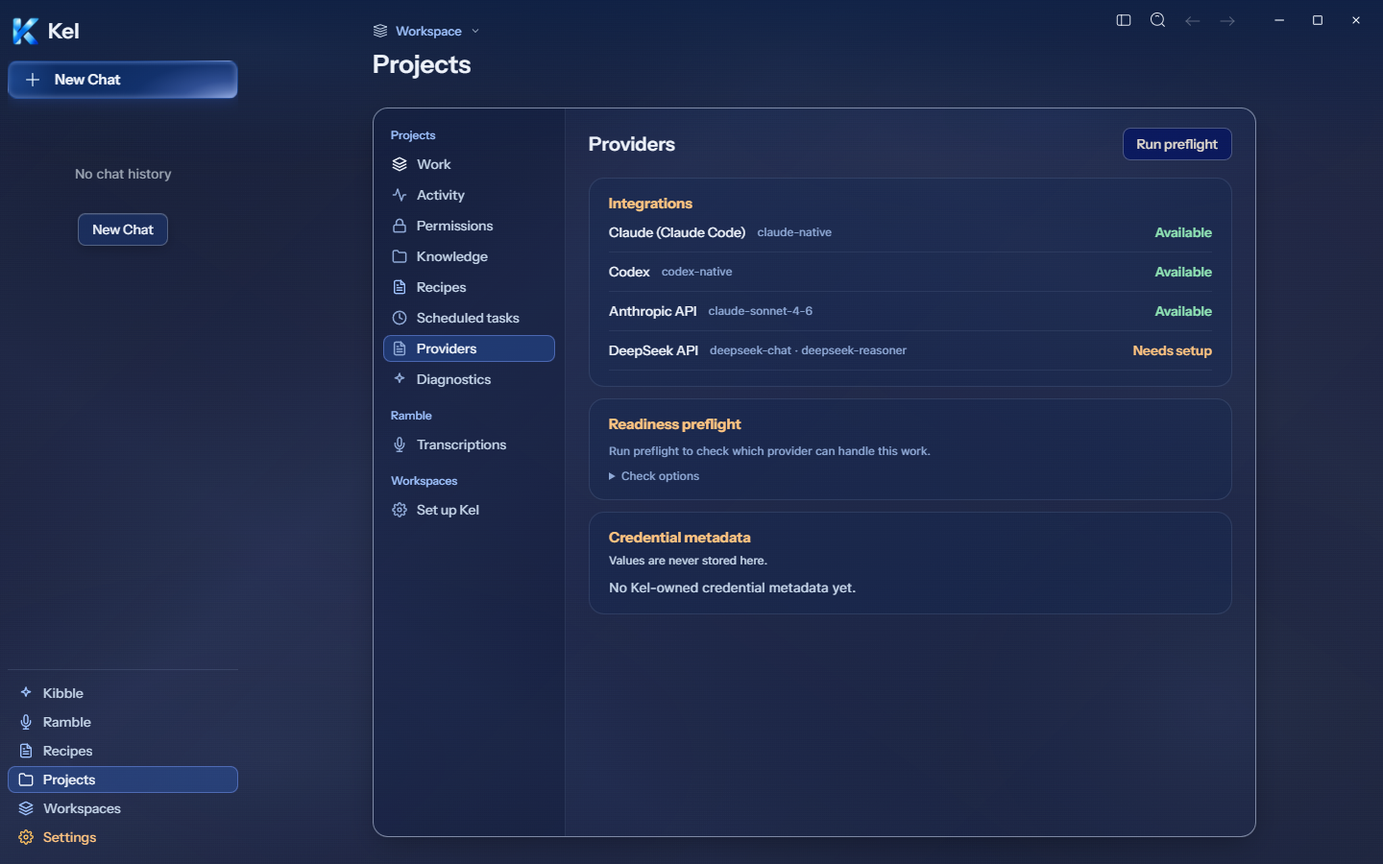
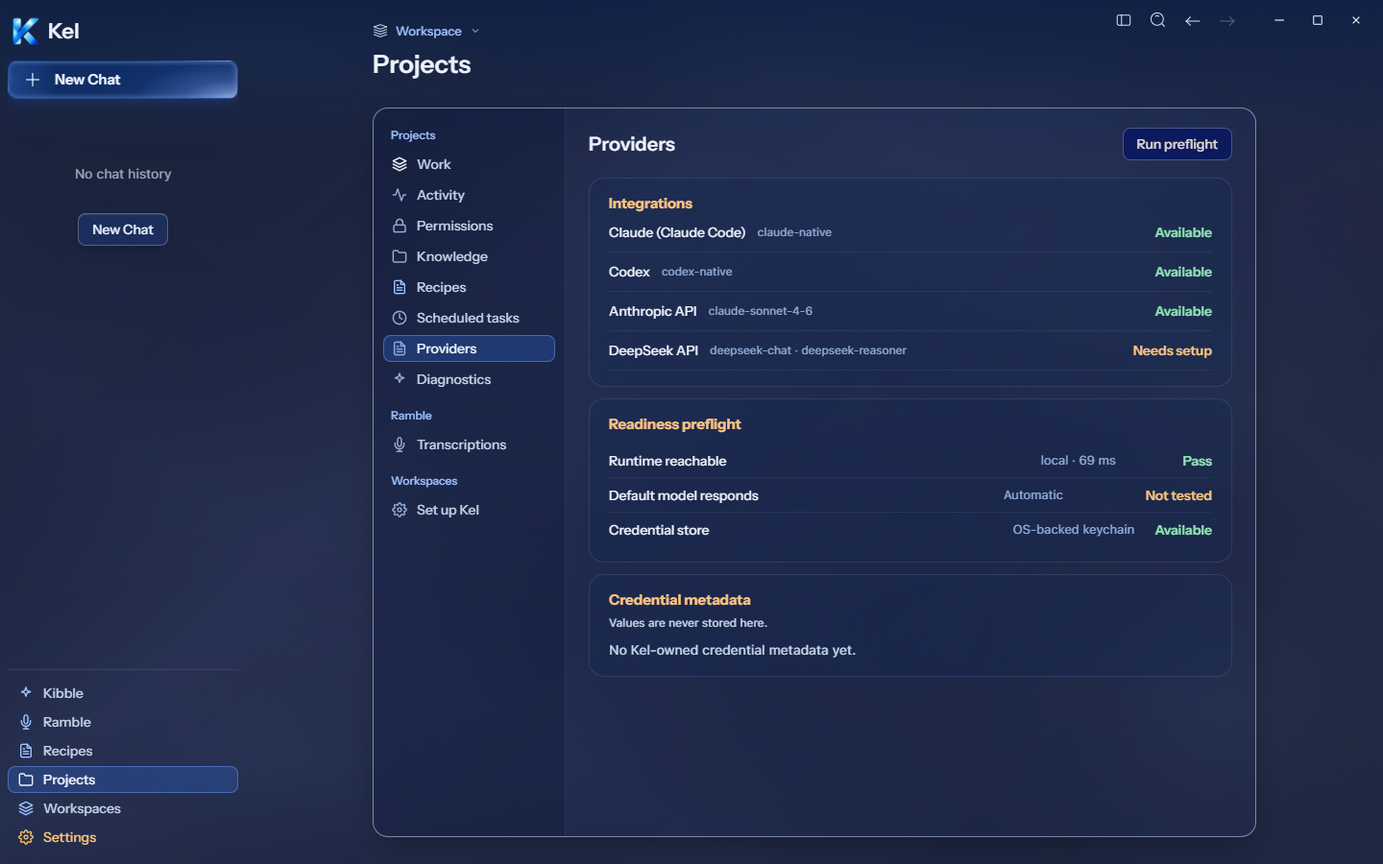
Match desktop Providers readiness and Model selection to Figma

Changed region(s): [[0.4375, 0.4978, 0.6562, 0.7778], [0.7188, 0.5289, 0.875, 0.6222]]

diff --git a/desktop/packages/desktop/src/renderer/styles/kel-shell.css b/desktop/packages/desktop/src/renderer/styles/kel-shell.css
@@ -1130,7 +1130,16 @@ button.kel-shell-attention-line { cursor: pointer; }
 .kel-v2-shell .kel-shell-task-setting-control:focus-visible { outline: 2px solid #7fa0ff; outline-offset: 2px; }
 .kel-v2-shell .kel-shell-task-setting-control > span { color: var(--kel-figma-color-text-muted); }
 .kel-v2-shell .kel-shell-activity-clear { margin: 0; color: var(--kel-figma-color-text-muted); font: 400 14px/20px var(--kel-shell-body); }
+.kel-v2-shell .kel-shell-provider-preflight-rows { display: flex; flex-direction: column; gap: 0; }
+.kel-v2-shell .kel-shell-provider-preflight-row { display: grid; grid-template-columns: minmax(0,1fr) minmax(0,140px) auto; align-items: center; gap: 8px; min-height: 35px; border-bottom: 1px solid rgba(191,216,255,.08); color: var(--kel-text-1); font: 500 14px/20px var(--kel-shell-heading); }
+.kel-v2-shell .kel-shell-provider-preflight-row:nth-of-type(3) { border-bottom: 0; }
+.kel-v2-shell .kel-shell-provider-preflight-row .kel-meta { font: 400 13px/18px var(--kel-shell-body); white-space: nowrap; overflow: hidden; text-overflow: ellipsis; }
+.kel-v2-shell .kel-shell-provider-preflight-row .kel-chip { justify-self: end; border: 0; background: transparent; box-shadow: none; padding: 0; white-space: nowrap; }
+.kel-v2-shell .kel-shell-provider-preflight-options { padding-top: 12px; border-top: 1px solid rgba(191,216,255,.08); }
 @media(min-width:768px) {
+  .kel-v2-shell .kel-shell-provider-preflight > .kel-shell-source-card-head { min-height: 20px; padding-right: 0; }
+  .kel-v2-shell .kel-shell-provider-preflight .kel-shell-source-card-actions { opacity: 0; pointer-events: none; }
+  .kel-v2-shell .kel-shell-provider-preflight:is(:hover, :focus-within) .kel-shell-source-card-actions { opacity: 1; pointer-events: auto; }
   .kel-v2-shell #project-map:has(.kel-empty) .kel-shell-source-card-head { min-height: 20px; padding-right: 0; }
   .kel-v2-shell #project-map:has(.kel-empty) .kel-shell-source-card-actions { opacity: 0; pointer-events: none; }
   .kel-v2-shell #project-map:has(.kel-empty):is(:hover, :focus-within) .kel-shell-source-card-actions { opacity: 1; pointer-events: auto; }
@@ -1184,6 +1193,10 @@ button.kel-shell-attention-line { cursor: pointer; }
     color: #7ee0a8;
     font: 700 13px/18px var(--kel-shell-heading);
   }
+}
+@media(min-width:768px) and (max-width:1100px) {
+  .kel-v2-shell .kel-shell-provider-preflight-row { grid-template-columns: minmax(0,1fr) auto; }
+  .kel-v2-shell .kel-shell-provider-preflight-row .kel-meta { display: none; }
 }
 @media(min-width:768px) {
   .kel-v2-shell .kel-shell-task-detail-desktop > .kel-shell-task-field {
@@ -1319,25 +1332,34 @@ html body .kel-v2-shell .kel-shell-chat-composer .sendbox-panel :is(.sendbox-mod
 .kel-v2-shell .kel-in-chat-frame__pane :is(.kel-shell-model-description, [data-testid='tools-header']) { display: none; }
 .kel-v2-shell .kel-in-chat-frame__pane [data-testid='kel-default-model-card'] { gap: 0; margin-bottom: 0; }
 .kel-v2-shell .kel-in-chat-frame__pane [data-testid='kel-default-model-card'] > .kel-shell-source-card-head { margin-bottom: 10px; }
-.kel-v2-shell .kel-in-chat-frame__pane [data-testid='kel-default-model-card'] > p:last-child { min-height: 25px; margin: 0 !important; font: 400 12px/16px var(--kel-shell-body); color: #6f86ad; }
 @media (min-width: 768px) {
-  .kel-v2-shell .kel-in-chat-frame__pane [data-testid='kel-default-model-card'] button {
+  .kel-v2-shell .kel-in-chat-frame__pane [data-testid='kel-default-model-card'] .kel-shell-default-model-row {
+    display: flex;
+    box-sizing: border-box;
+    min-height: 58px;
+    height: 58px;
+    gap: 12px;
     border: 0 !important;
     border-bottom: 1px solid rgba(191,216,255,.08) !important;
     border-radius: 0;
-    padding-left: 14px;
-    padding-right: 12px;
+    padding: 0;
+    background: transparent !important;
   }
-  .kel-v2-shell .kel-in-chat-frame__pane [data-testid='kel-default-model-card'] button[aria-pressed='true'] {
-    border-radius: 8px;
-    background: rgba(47,107,224,.2) !important;
-  }
-  .kel-v2-shell .kel-in-chat-frame__pane [data-testid='kel-default-model-card'] button > span:first-child { font: 500 14px/20px var(--kel-shell-heading); }
-  .kel-v2-shell .kel-in-chat-frame__pane [data-testid='kel-default-model-card'] button > span:first-child > span { font: 400 12px/16px var(--kel-shell-body); color: var(--kel-figma-color-text-muted); }
-  .kel-v2-shell .kel-in-chat-frame__pane [data-testid='kel-default-model-card'] button > span:last-child { font: 700 13px/18px var(--kel-shell-heading); }
-  .kel-v2-shell .kel-in-chat-frame__pane [data-testid='kel-default-model-card'] button[aria-pressed='true'] > span:last-child { color: #9fc3ff; }
-  .kel-v2-shell .kel-in-chat-frame__pane [data-testid='kel-default-model-card'] button .kel-chip--ok { color: #8fe3b4; }
-  .kel-v2-shell .kel-in-chat-frame__pane [data-testid='kel-default-model-card'] button .kel-chip--wait { color: #ffc481; }
+  .kel-v2-shell .kel-in-chat-frame__pane .kel-shell-default-model-row:last-child { border-bottom: 0 !important; }
+  .kel-v2-shell .kel-in-chat-frame__pane .kel-shell-default-model-row:hover { background: rgba(47,107,224,.08) !important; }
+  .kel-v2-shell .kel-in-chat-frame__pane .kel-shell-default-model-row .kel-shell-default-model-lead { display: flex; flex: 0 0 24px; align-items: center; justify-content: center; color: #9fc3ff; font: 600 17px/20px var(--kel-shell-heading); }
+  .kel-v2-shell .kel-in-chat-frame__pane .kel-shell-default-model-row .kel-shell-default-model-name { display: flex; flex: 1; flex-direction: column; min-width: 0; gap: 2px; color: var(--kel-text-1); font: 500 14px/19px var(--kel-shell-heading); }
+  .kel-v2-shell .kel-in-chat-frame__pane .kel-shell-default-model-row .kel-shell-default-model-name > span { color: #8fa9d6; font: 400 12px/16px var(--kel-shell-body); }
+  .kel-v2-shell .kel-in-chat-frame__pane .kel-shell-default-model-row .kel-shell-default-model-status { flex: 0 0 120px; color: #8fe3b4; font: 700 13px/18px var(--kel-shell-heading); }
+  .kel-v2-shell .kel-in-chat-frame__pane .kel-shell-default-model-row[aria-pressed='true'] .kel-shell-default-model-status { color: #9fc3ff; }
+  .kel-v2-shell .kel-in-chat-frame__pane .kel-shell-default-model-row .kel-shell-default-model-status--wait { color: #ffc481; }
+  .kel-v2-shell .kel-in-chat-frame__pane .kel-shell-default-model-row .kel-shell-default-model-action { flex: 0 0 60px; color: #9fc3ff; text-align: right; font: 600 14px/20px var(--kel-shell-heading); }
+}
+@media (min-width: 768px) and (max-width: 900px) {
+  .kel-v2-shell .kel-in-chat-frame__pane .kel-shell-default-model-row { gap: 8px; }
+  .kel-v2-shell .kel-in-chat-frame__pane .kel-shell-default-model-row .kel-shell-default-model-lead { flex-basis: 20px; }
+  .kel-v2-shell .kel-in-chat-frame__pane .kel-shell-default-model-row .kel-shell-default-model-status { flex-basis: 98px; }
+  .kel-v2-shell .kel-in-chat-frame__pane .kel-shell-default-model-row .kel-shell-default-model-action { flex-basis: 48px; }
 }
 .kel-v2-shell .kel-in-chat-frame__pane .kel-shell-custom-models { position: relative; min-height: 215px; margin-bottom: 0; }
 .kel-v2-shell .kel-in-chat-frame__pane .kel-shell-custom-models .kel-shell-model-actions { position: absolute; right: 20px; top: 10px; }

diff --git a/desktop/packages/desktop/src/renderer/components/kel/KelModelControl.tsx b/desktop/packages/desktop/src/renderer/components/kel/KelModelControl.tsx
@@ -242,12 +242,13 @@ export const KelModelPill: React.FC<{ conversationId?: string }> = ({ conversati
 };
 
 export const KelDefaultModelCard: React.FC<{ compact?: boolean }> = ({ compact = false }) => {
+  const navigate = useNavigate();
   const { state, setDefault } = useKelModelState();
   // Defensive: a payload without the provider listing must not take the page down with it.
   const providers = state?.providers ?? [];
 
   return (
-    <KelCard title='Available now' data-testid='kel-default-model-card'>
+    <KelCard title='Default model' data-testid='kel-default-model-card'>
       {!compact && <p className='text-14px text-t-secondary m-0 mb-10px'>
         Kel uses this model for normal conversations. The list shows the models available to Kel right
         now — a chat can still pick its own model from the chat header, and Automatic keeps Kel's
@@ -256,17 +257,19 @@ export const KelDefaultModelCard: React.FC<{ compact?: boolean }> = ({ compact =
       {!state ? (
         <p className='text-14px text-t-secondary m-0'>Kel's model list is unavailable right now.</p>
       ) : (
-        <div className='flex flex-col gap-4px'>
+        <div className='flex flex-col gap-4px kel-shell-default-model-rows'>
           <button
             type='button'
             data-testid='kel-default-auto'
             aria-pressed={!state.default}
             onClick={() => void setDefault(null)}
-            className='flex items-center text-left px-10px py-8px rounded-8px cursor-pointer'
+            className='flex items-center text-left px-10px py-8px rounded-8px cursor-pointer kel-shell-default-model-row'
             style={{ background: !state.default ? 'var(--color-fill-2)' : 'transparent', border: '1px solid var(--color-border-2)' }}
           >
-            <span className='text-14px'>Automatic<span className='kel-desktop-only'> — Kel picks what is available</span></span>
-            {!state.default ? <span className='ms-auto text-11px text-t-secondary'>Current</span> : null}
+            <span className='kel-shell-default-model-lead' aria-hidden='true'>✦</span>
+            <span className='kel-shell-default-model-name'>Automatic<span>Kel picks what is available</span></span>
+            <span className='kel-shell-default-model-status'>{!state.default ? 'Current' : ''}</span>
+            <span className='kel-shell-default-model-action' />
           </button>
           {providers.map((provider) =>
             provider.options.map((option) => {
@@ -278,25 +281,25 @@ export const KelDefaultModelCard: React.FC<{ compact?: boolean }> = ({ compact =
                   disabled={false}
                   data-testid={'kel-default-' + provider.id + '-' + option.id}
                   aria-pressed={current}
-                  onClick={() => void setDefault({ provider: provider.id, model: option.id })}
-                  className='flex items-center text-left px-10px py-8px rounded-8px cursor-pointer disabled:cursor-not-allowed'
+                  onClick={() => option.available ? void setDefault({ provider: provider.id, model: option.id }) : navigate('/providers')}
+                  className='flex items-center text-left px-10px py-8px rounded-8px cursor-pointer kel-shell-default-model-row'
                   style={{
                     background: current ? 'var(--kel-surface-2)' : 'transparent',
                     border: `1px solid ${current ? 'var(--kel-border-strong)' : 'var(--kel-border)'}`,
                   }}
                 >
-                  <span className='text-14px' style={{ opacity: option.available ? 1 : 0.6 }}>
-                    {option.label}
-                    <span className='ms-6px text-12px text-t-secondary kel-desktop-only'>{provider.label}</span>
+                  <span className='kel-shell-default-model-lead' aria-hidden='true'>⌁</span>
+                  <span className='kel-shell-default-model-name'>{option.label}<span>{provider.label}</span></span>
+                  <span className={`kel-shell-default-model-status${!option.available ? ' kel-shell-default-model-status--wait' : ''}`}>
+                    {current ? 'Current' : option.available ? 'Available' : 'Needs setup'}
                   </span>
-                  {current ? <span className='ms-auto text-12px text-t-secondary'>Current</span> : availabilityLabel(option.available)}
+                  <span className='kel-shell-default-model-action'>{current ? '' : option.available ? 'Use' : 'Set up'}</span>
                 </button>
               );
             })
           )}
         </div>
       )}
-      <p className='text-12px text-t-secondary m-0 mt-8px kel-desktop-only'>Saved immediately. Switching back to Automatic restores Kel's normal routing.</p>
     </KelCard>
   );
 };

diff --git a/desktop/packages/desktop/src/renderer/pages/kel/providers/index.tsx b/desktop/packages/desktop/src/renderer/pages/kel/providers/index.tsx
@@ -39,6 +39,8 @@ const Providers: React.FC = () => {
     reasons: string[];
     reason: string;
   } | null>(null);
+  const [runtimeMs, setRuntimeMs] = useState<number | null>(null);
+  const [readinessOptionsOpen, setReadinessOptionsOpen] = useState(false);
   const [error, setError] = useState<unknown>(null);
   const [note, setNote] = useState<string | null>(null);
   const [busy, setBusy] = useState(false);
@@ -57,6 +59,7 @@ const Providers: React.FC = () => {
 
   const load = useCallback(async () => {
     try {
+      const started = performance.now();
       const [list, credentials, capabilityRows] = await Promise.all([
         kelProviders.list(),
         kelProviders.credentials(),
@@ -65,9 +68,11 @@ const Providers: React.FC = () => {
       setProviders(list.providers ?? []);
       setCredentialRows(credentials.credentials ?? []);
       setCapabilities(capabilityRows);
+      setRuntimeMs(Math.max(0, Math.round(performance.now() - started)));
       setError(null);
     } catch (err) {
       setProviders([]);
+      setRuntimeMs(null);
       setError(err);
     }
   }, []);
@@ -269,12 +274,16 @@ const Providers: React.FC = () => {
 
         </KelCard>
 
-        <KelCard title="Readiness preflight">
-          {!readiness && <p className="kel-meta">Run preflight to check which provider can handle this work.</p>}
-          <details><summary className="kel-meta">Check options</summary>
+        <KelCard title="Readiness preflight" className="kel-shell-provider-preflight"
+          actions={<KelButton variant="quiet" onClick={() => setReadinessOptionsOpen(open => !open)} ariaLabel="Preflight options">Options</KelButton>}>
+          <div className="kel-shell-provider-preflight-rows">
+            <div className="kel-shell-provider-preflight-row"><span>Runtime reachable</span><span className="kel-meta">{runtimeMs === null ? 'local' : `local · ${runtimeMs} ms`}</span><span className={`kel-chip ${error ? 'kel-chip--wait' : 'kel-chip--ok'}`}>{error ? 'Unavailable' : runtimeMs === null ? 'Checking' : 'Pass'}</span></div>
+            <div className="kel-shell-provider-preflight-row"><span>Default model responds</span><span className="kel-meta">Automatic</span><span className="kel-chip kel-chip--wait">Not tested</span></div>
+            <div className="kel-shell-provider-preflight-row"><span>Credential store</span><span className="kel-meta">OS-backed keychain</span><span className={`kel-chip ${secure?.available ? 'kel-chip--ok' : 'kel-chip--wait'}`}>{secure?.available ? 'Available' : 'Unavailable'}</span></div>
+          </div>
+          {readinessOptionsOpen && <div className="kel-shell-provider-preflight-options">
           <p className="kel-sub">
-            What Kel would use for a capability right now, and why — the engine records the fallback
-            reason instead of guessing.
+            This checks routing only. It does not send a prompt or prove a model response.
           </p>
           <div className="kel-row">
             {['text', 'vision', 'tools', 'edit', 'shell'].map((name) => (
@@ -300,7 +309,7 @@ const Providers: React.FC = () => {
               Check readiness
             </KelButton>
           </div>
-          </details>
+          </div>}
           {readiness && (
             <>
               <p className="kel-strong">

diff --git a/desktop/packages/desktop/src/renderer/pages/settings/components/SettingsPageWrapper.tsx b/desktop/packages/desktop/src/renderer/pages/settings/components/SettingsPageWrapper.tsx
@@ -208,7 +208,7 @@ const SettingsPageWrapper: React.FC<SettingsPageWrapperProps> = ({ children, cla
           <div className={contentClass}>
             <header className='kel-shell-settings-header'>
               <p>{pathname.endsWith('/model') ? 'Model' : pathname.endsWith('/about') ? 'Other' : /\/(model|tools|webui)$/.test(pathname) ? 'Settings' : pathname.endsWith('/archived') ? 'History' : 'Application'}</p>
-              <h1>{pathname.endsWith('/model') ? 'Default Kel model' : pathname.endsWith('/skills') ? 'Skills Hub' : pathname.endsWith('/webui') ? 'WebUI' : pathname.endsWith('/archived') ? 'Archived conversations' : menuItems.find((item) => pathname.includes(`/settings/${item.path}`))?.label ?? 'Settings'}</h1>
+              <h1>{pathname.endsWith('/model') ? 'Model' : pathname.endsWith('/skills') ? 'Skills Hub' : pathname.endsWith('/webui') ? 'WebUI' : pathname.endsWith('/archived') ? 'Archived conversations' : menuItems.find((item) => pathname.includes(`/settings/${item.path}`))?.label ?? 'Settings'}</h1>
             </header>
             {pathname.endsWith('/model') && <p className='kel-shell-model-description'>Kel uses this model for normal conversations. A chat can still pick its own model from the chat header, and Automatic keeps Kel's routing across every available provider.</p>}
             {children}

diff --git a/desktop/packages/desktop/src/renderer/components/kel/ShellSourceCardHeader.tsx b/desktop/packages/desktop/src/renderer/components/kel/ShellSourceCardHeader.tsx
@@ -2,7 +2,7 @@ import React from 'react';
 
 // Audit 2 reads effective visibility, including all Figma ancestors.
 // Hidden component defaults are not screen copy.
-const TITLES = ['Available now', 'Custom models', 'Jobs', 'Waiting to continue', 'Team assignments', 'Active permissions', 'Access requests', 'Permission check', 'Knowledge', 'Project map', 'Recipes', 'Integrations', 'Readiness preflight', 'Credential metadata', 'Health', 'Measured performance', 'Maintenance', 'Kel', 'Archived', 'Kel runs on this machine', 'Connect a model', 'Where work happens', 'How much Kel does on its own', "You're set"];
+const TITLES = ['Available now', 'Default model', 'Custom models', 'Jobs', 'Waiting to continue', 'Team assignments', 'Active permissions', 'Access requests', 'Permission check', 'Knowledge', 'Project map', 'Recipes', 'Integrations', 'Readiness preflight', 'Credential metadata', 'Health', 'Measured performance', 'Maintenance', 'Kel', 'Archived', 'Kel runs on this machine', 'Connect a model', 'Where work happens', 'How much Kel does on its own', "You're set"];
 const DESCRIPTIONS: Record<string, string> = {
   'Credential metadata': 'Values are never stored here.',
   'Kel runs on this machine': 'Nothing leaves your computer unless you connect a provider.',

diff --git a/desktop/tests/unit/kel-shell-model.dom.test.tsx b/desktop/tests/unit/kel-shell-model.dom.test.tsx
@@ -1,5 +1,6 @@
 import React from 'react';
 import { Message } from '@arco-design/web-react';
+import { MemoryRouter } from 'react-router-dom';
 import { cleanup, fireEvent, render, screen, waitFor } from '@testing-library/react';
 import { afterEach, expect, it, vi } from 'vitest';
 import { KelDefaultModelCard } from '@renderer/components/kel/KelModelControl';
@@ -14,7 +15,7 @@ it('reads and saves the default model through authenticated browser transport', 
     requests.push({ url: String(url), body });
     return { ok: true, json: async () => ({ default: null, conversation: null, providers: [] }) };
   }));
-  render(<KelDefaultModelCard compact />);
+  render(<MemoryRouter><KelDefaultModelCard compact /></MemoryRouter>);
   const automatic = await screen.findByTestId('kel-default-auto');
   fireEvent.click(automatic);
   await waitFor(() => expect(requests).toContainEqual({ url: '/kel/api/model', body: { action: 'set_default', choice: null } }));

diff --git a/docs/v2/MARATHON_STATE.md b/docs/v2/MARATHON_STATE.md
@@ -12,10 +12,10 @@ setup_commit: 47eb3b49322a7cfbe85bbee7a0674c77037b127f   # V2 program initializa
 remote: https://github.com/BeardedBats/Kel
 
 phase: V2-19                # bounded product and Figma regression; release candidate still pending
-next_item: Complete desktop implementation first. Next implement truthful desktop Providers readiness 189:3098 and Diagnostics maintenance 189:3564 where matching runtime operations exist. Then inspect populated Work, Permissions, Projects, and Scheduled tasks with bounded engine states, plus remaining desktop frames. Keep mobile paused. Update canonical App for Nick to test after desktop completion, then resume mobile UI/UX.
+next_item: Complete desktop implementation first. Next match desktop Model Add model overlay 311:2730 and populated custom-model rows using isolated configuration. Then inspect populated Work, Permissions, Projects, and Scheduled tasks with bounded engine states, plus remaining desktop frames. Diagnostics maintenance remains open until matching runtime operations exist. Keep mobile paused. Update canonical App for Nick to test after desktop completion, then resume mobile UI/UX.
 
 status: partial
-# Nick prioritised complete desktop implementation on 2026-09-25. He will test desktop while mobile UI/UX implementation continues. Desktop Recipes list, Preview, and Run are implemented with isolated package evidence. Desktop Home, Work empty, Activity empty/running, Permissions empty, Projects empty, Scheduled tasks list/detail, Connections empty/populated/credential, Providers, and Diagnostics have current scoped package checks. Activity's separator-space correction was included in the later Projects package. Scheduled task detail has real toggle/pause/edit/confirmation checks and synthetic History layout. Scheduled list controls open the real edit dialog. Populated Work, Permissions, Projects, and Scheduled tasks remain open. Providers' readiness rows and Diagnostics maintenance controls remain open. Connections mutating action confirmation is DOM-tested but has no packaged state because the engine catalogs read actions only. Package by coherent desktop feature groups instead of per Figma frame. Canonical App packages source 8c67121; promotion awaits desktop completion. Current Tools, selected Chat states, Transcriptions, and selected mobile states have scoped disposable package checks. Older visual results are historical. See evidence/figma-full-audit/FIGMA_REVISION_2026-09-25.md and its linked scoped records.
+# Nick prioritised complete desktop implementation on 2026-09-25. He will test desktop while mobile UI/UX implementation continues. Desktop Recipes list, Preview, and Run are implemented with isolated package evidence. Desktop Home, Work empty, Activity empty/running, Permissions empty, Projects empty, Scheduled tasks list/detail, Connections empty/populated/credential, Providers, Diagnostics, and Model have current scoped package checks. Activity's separator-space correction was included in the later Projects package. Scheduled task detail has real toggle/pause/edit/confirmation checks and synthetic History layout. Scheduled list controls open the real edit dialog. Populated Work, Permissions, Projects, Scheduled tasks, and custom Model configuration remain open. Providers has three truthful readiness rows; a real model reply is untested. Diagnostics maintenance controls remain open because matching runtime operations do not exist. Connections mutating action confirmation is DOM-tested but has no packaged state because the engine catalogs read actions only. Package by coherent desktop feature groups instead of per Figma frame. Canonical App packages source 8c67121; promotion awaits desktop completion. Current Tools, selected Chat states, Transcriptions, and selected mobile states have scoped disposable package checks. Older visual results are historical. See evidence/figma-full-audit/FIGMA_REVISION_2026-09-25.md and its linked scoped records.
 # V2-04 (the Connection Framework) is closed; its two open needs are carried as V2-04a/V2-04b in FEATURE_LEDGER.md.
 
 deferred:

diff --git a/docs/v2/evidence/figma-full-audit/FIGMA_REVISION_2026-09-25.md b/docs/v2/evidence/figma-full-audit/FIGMA_REVISION_2026-09-25.md
@@ -38,7 +38,7 @@
 | `189:1758` | Kel / Permissions | `/autonomy` | Current empty cards measured at 1440 and 800px. Populated grants and requests remain open. [Scoped evidence](DESKTOP_PERMISSIONS_CURRENT_REVISION.md). | READ |
 | `189:2193` | Kel / Projects | `/projects` | Empty cards now match Figma at 1440 and 800px; Refresh map remains accessible on hover/focus. [Scoped evidence](DESKTOP_PROJECTS_CURRENT_REVISION.md). | READ |
 | `189:2628` | Kel / Scheduled tasks | `/scheduled` | Selected card controls implemented and package-checked. Three sample tasks and history remain open. [Scoped evidence](DESKTOP_SCHEDULED_LIST_CURRENT_REVISION.md). | READ |
-| `189:3098` | Kel / Providers | `/providers` | Real catalog and card bounds package-checked; three readiness rows and live response remain open. [Scoped evidence](DESKTOP_PROVIDERS_CURRENT_REVISION.md). | READ |
+| `189:3098` | Kel / Providers | `/providers` | Real catalog and three truthful readiness rows package-checked; live model response remains open. [Scoped evidence](DESKTOP_PROVIDERS_CURRENT_REVISION.md). | READ |
 | `189:3564` | Kel / Diagnostics | `/diagnostics` | Data-driven cards package-checked; two maintenance actions remain disabled. [Scoped evidence](DESKTOP_DIAGNOSTICS_CURRENT_REVISION.md). | READ |
 | `189:4032` | Kel / Transcriptions | `/transcription/library` | Current populated panel and four footer actions compared in isolated package. | READ |
 | `189:4492` | Kel / Set up Kel | `/onboarding` | Retained node; inner revision not measured. | PENDING |
@@ -56,8 +56,8 @@
 | `269:501` | Kel / Connections — Add a service | `/connections` | Six main fields in two columns; extra options and taller card remain. [Scoped evidence](DESKTOP_CONNECTIONS_CURRENT_REVISION.md). | READ |
 | `269:971` | Kel / Connections — Add credential | `/connections` | Inline editor captured in an isolated package; secure-store value never submitted. [Scoped evidence](DESKTOP_CONNECTIONS_CURRENT_REVISION.md). | READ |
 | `269:1419` | Kel / Connections — Run an action | `/connections` | Confirmation placement tested in DOM; no real mutating catalog action exists for package capture. [Scoped evidence](DESKTOP_CONNECTIONS_CURRENT_REVISION.md). | READ |
-| `311:2239` | Kel / Settings — Model | `/settings/model` | New or replaced node; prior pair absent. | PENDING |
-| `311:2730` | Kel / Settings — Model — Add model | `/settings/model` | New or replaced node; prior pair absent. | PENDING |
+| `311:2239` | Kel / Settings — Model | `/settings/model` | Default-model rows and real actions package-checked at 1440/800; populated custom models remain open. [Scoped evidence](DESKTOP_MODEL_CURRENT_REVISION.md). | READ |
+| `311:2730` | Kel / Settings — Model — Add model | `/settings/model` | Current frame read; existing functional form captured, but its layout differs from Figma. [Scoped evidence](DESKTOP_MODEL_CURRENT_REVISION.md). | READ |
 | `311:3140` | Kel / Settings — Assistants | `/settings/assistants` | New or replaced node; prior pair absent. | PENDING |
 | `311:3536` | Kel / Settings — Skills | `/settings/skills` | New or replaced node; prior pair absent. | PENDING |
 | `313:2441` | Kel / Settings — Tools | `/settings/tools` | Replaces `188:1956`; four MCP status rows and image-off card confirmed. | READ |

diff --git a/docs/v2/KNOWN_LIMITATIONS.md b/docs/v2/KNOWN_LIMITATIONS.md
@@ -4,7 +4,7 @@
 
 [Work empty](evidence/figma-full-audit/DESKTOP_WORK_CURRENT_REVISION.md) matches Figma's three card bounds at 1440 and 800px. Populated Work and its actions remain open. [Scheduled tasks list](evidence/figma-full-audit/DESKTOP_SCHEDULED_LIST_CURRENT_REVISION.md) uses real saved execution modes, so it does not show Figma's illustrative “Queue” as an execution mode. Its setting controls open the edit dialog rather than an inline menu. [Scheduled task detail](evidence/figma-full-audit/DESKTOP_SCHEDULED_TASK_DETAIL_CURRENT_REVISION.md) matches the Details card dimensions and has tested controls. History rows were synthetic, not real runs. The scheduler has no project label or per-run outcome record, so the screen shows a dash for Project and only displays the latest task status on the latest run. The canonical installed App still packages `8c67121`.
 [Desktop Activity](evidence/figma-full-audit/DESKTOP_ACTIVITY_CURRENT_REVISION.md) now has an isolated running-job package check. No model worker executed, and waiting and finished outcomes remain open. The final separator-space CSS correction was packaged later but the running row was not recaptured. [Desktop Permissions](evidence/figma-full-audit/DESKTOP_PERMISSIONS_CURRENT_REVISION.md) covers empty cards only; populated grants, requests, and Run check remain open.
-[Desktop Projects](evidence/figma-full-audit/DESKTOP_PROJECTS_CURRENT_REVISION.md) now matches the empty three-card geometry. Populated knowledge, map sections, and recipes remain open. [Desktop Providers](evidence/figma-full-audit/DESKTOP_PROVIDERS_CURRENT_REVISION.md) has real catalog rows but does not show Figma's three illustrative successful readiness checks. [Desktop Diagnostics](evidence/figma-full-audit/DESKTOP_DIAGNOSTICS_CURRENT_REVISION.md) has live health and performance values. Clear caches and Restart runtime remain disabled because the existing operations do not match their stated behavior. The canonical installed App still packages `8c67121`.
+[Desktop Projects](evidence/figma-full-audit/DESKTOP_PROJECTS_CURRENT_REVISION.md) now matches the empty three-card geometry. Populated knowledge, map sections, and recipes remain open. [Desktop Providers](evidence/figma-full-audit/DESKTOP_PROVIDERS_CURRENT_REVISION.md) has real catalog rows and three honest readiness rows; the default model has not answered a live test. [Desktop Model](evidence/figma-full-audit/DESKTOP_MODEL_CURRENT_REVISION.md) now has Figma-style default-model rows with real selection and setup actions. Its Add model dialog and populated custom-model state remain open. [Desktop Diagnostics](evidence/figma-full-audit/DESKTOP_DIAGNOSTICS_CURRENT_REVISION.md) has live health and performance values. Clear caches and Restart runtime remain disabled because the existing operations do not match their stated behavior. The canonical installed App still packages `8c67121`.
 
 ## Desktop Home and Connections (2026-09-25)
 

diff --git a/docs/v2/TEST_EVIDENCE.md b/docs/v2/TEST_EVIDENCE.md
@@ -1,5 +1,9 @@
 # KEL V2.0 — TEST EVIDENCE
 
+## Desktop Providers and Model (2026-09-25)
+
+[Providers `189:3098`](evidence/figma-full-audit/DESKTOP_PROVIDERS_CURRENT_REVISION.md) now shows three truthful readiness rows in an isolated package. Its first card measured 670×171 at 1440px and 388×171 at 800px. The read-only preflight selected Claude without requesting a model reply. [Model `311:2239`](evidence/figma-full-audit/DESKTOP_MODEL_CURRENT_REVISION.md) now uses Figma's row structure with the real six-option catalog. Its default-model card measured x613/y183, 670×412 at 1440px and x371/y179, 388×412 at 800px. Selecting Claude Sonnet 4.6, restoring Automatic, and opening Providers through Set up worked with isolated data. The existing Add Model dialog opened at both widths; its Figma-specific layout remains open. Neither page overflowed or reported a renderer error. TypeScript, the desktop suite **54 files / 401 tests**, Electron Vite, and Windows packaging passed. Canonical App and Data were untouched.
+
 ## Desktop Work, Activity, and scheduled tasks (2026-09-25)
 
 [Work `189:907`](evidence/figma-full-audit/DESKTOP_WORK_CURRENT_REVISION.md) matched the three empty-card bounds in an isolated Windows package at 1440 and 800px. [Activity `189:1342`](evidence/figma-full-audit/DESKTOP_ACTIVITY_CURRENT_REVISION.md) now uses Figma's “All clear” empty copy; its empty cards fit both widths. [Scheduled tasks `189:2628`](evidence/figma-full-audit/DESKTOP_SCHEDULED_LIST_CURRENT_REVISION.md) has three styled setting controls that opened the real edit dialog in a package. [Task detail `272:739`](evidence/figma-full-audit/DESKTOP_SCHEDULED_TASK_DETAIL_CURRENT_REVISION.md) now has Kel Details and History cards. At 1440px Details measured x613/y211, 670×418; at 800px it measured x371/y239, 388×418. Two intercepted synthetic history rows produced 178px History cards at both widths. The packaged task switch changed off and back on, Pause/Resume worked, Edit opened, and inline delete confirmation opened and canceled. No overflow or renderer error appeared. TypeScript, the desktop suite **54 files / 401 tests**, Electron Vite, and Windows packaging passed. No task was run. Canonical App and Data were untouched.

diff --git a/docs/v2/IMPLEMENTATION_STATUS.md b/docs/v2/IMPLEMENTATION_STATUS.md
@@ -6,7 +6,7 @@ What is actually built, as distinct from what is planned. Updated as phases land
 
 The canonical source now has a Kel-style scheduled task detail with real Pause/Resume, Edit, Run now, skip protection, delete confirmation, and History actions. The scheduled list has Figma-style Assistant, Model, and Execution mode controls that open the real edit dialog. Activity uses Figma's empty “All clear” copy. Disposable Windows package checks covered these states at 1440 and 800px. Populated Work, waiting and finished Activity, live scheduled History, and many remaining desktop frames still need implementation and verification. The canonical installed App remains on source `8c67121` until the desktop completion install.
 Activity's desktop running row now shows a stored milestone beside its job name, a green progress dot, and a Running label. A bounded engine fixture passed packaged checks at 1440 and 800px. Permissions empty cards also match the current Figma frame. Waiting and finished Activity states, populated Permissions, populated Work, and many desktop frames remain open.
-The Projects empty map card now matches Figma's 85px height while retaining Refresh map on hover or keyboard focus. Providers and Diagnostics received scoped packaged comparisons. Providers' three readiness checks and Diagnostics' cache/restart operations remain open; neither source currently supports Figma's illustrated behavior safely.
+The Projects empty map card now matches Figma's 85px height while retaining Refresh map on hover or keyboard focus. Providers' readiness card now shows three truthful rows, including an explicitly untested model reply. Model has Figma's default-model row structure and real Use, Automatic, and Set up actions. Isolated package checks covered both at 1440 and 800px. Populated custom models and Add model overlay parity remain open. Diagnostics' cache/restart controls remain disabled because the runtime does not support their stated behavior safely.
 
 ## Current canonical state (2026-09-24)
 

diff --git a/docs/v2/evidence/figma-full-audit/DESKTOP_PROVIDERS_CURRENT_REVISION.md b/docs/v2/evidence/figma-full-audit/DESKTOP_PROVIDERS_CURRENT_REVISION.md
@@ -2,4 +2,4 @@
 
 Current Figma [Providers `189:3098`](https://www.figma.com/design/BlpVvZGuc9j9HhxUojIiJI/Kel-Design-System?node-id=189-3098) was read directly. An isolated package showed four real catalog integrations, one without setup, at [1440px](DESKTOP_PROVIDERS_PACKAGE_1440.png) and [800px](DESKTOP_PROVIDERS_PACKAGE_800.png). The Integrations card measured x613/y185, 670×218 and x371/y181, 388×218. Neither width overflowed or reported a renderer error.
 
-Figma shows illustrative provider names and three successful readiness checks. The isolated engine exposes different real labels and no live model response. Production's Readiness preflight card instead offers a capability selection check; its unopened card measured 670×106 and 388×106. A truthful three-row health presentation, a real default-model response, and credential-backed checks remain open. No credential was read or submitted. Canonical App and Data were untouched.
+Figma shows illustrative provider names and three successful readiness checks. The isolated engine exposes different real labels and no live model response. Source now renders three honest checks: measured runtime reachability, an untested default-model response, and OS credential-store availability. The capability selection remains in Options. The revised card measured 670×171 and 388×171, close to Figma's 176px. Run preflight selected Claude through the isolated engine without sending a model request. A real default-model response and credential-backed checks remain open. No credential was read or submitted. Canonical App and Data were untouched.
